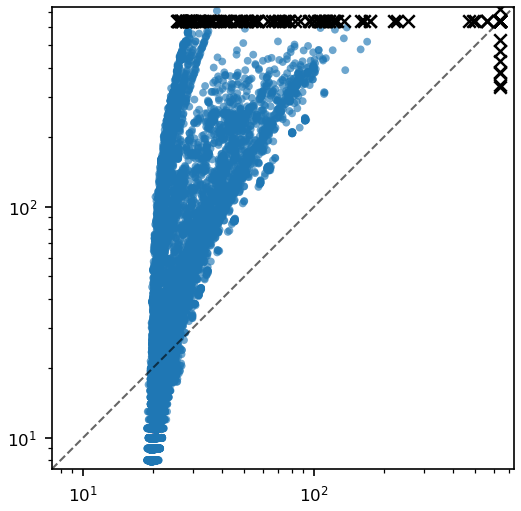
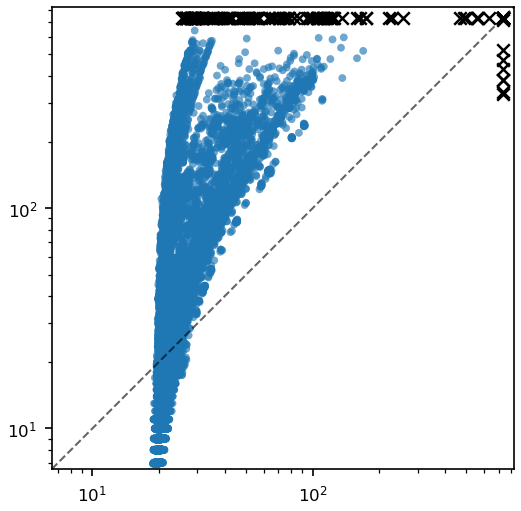
update plots

diff --git a/scripts/plot_frontend_scatter.py b/scripts/plot_frontend_scatter.py
@@ -131,9 +131,12 @@ def plot_one(ax, data, metric_key, other_parser, xlabel, ylabel, scale_rss=False
     # log scale：下限必须为正；time/RSS 通常没有很小值，用 max 的 1% 做下限，不从 10^0 起留空
     if lim_min <= 0:
         lim_min = max(1e-9, lim_max * 0.01) if lim_max > 0 else 1e-9
-    # 超时点往里缩一截（log 下用比例），避免被边框盖住；用叉号更醒目
-    boundary = lim_max / 1.15
-    boundary = max(boundary, lim_min * 1.1)
+    # 超时叉号画在数据最外侧（boundary = lim_max），保证叉号是最外层的点
+    boundary = lim_max
+    # 坐标轴再往外扩一截（log 下用比例），让叉号与边框之间留出缝隙，不贴边
+    pad_factor = 1.12  # 约 12% 扩展，留出可见空隙
+    lim_min_plot = lim_min / pad_factor
+    lim_max_plot = lim_max * pad_factor
     # 成功点
     if ok_pairs:
         xs, ys = zip(*ok_pairs)
@@ -155,9 +158,9 @@ def plot_one(ax, data, metric_key, other_parser, xlabel, ylabel, scale_rss=False
         ax.scatter(tx, ty, marker="x", s=36, linewidths=1.2, c="k", zorder=5)
     ax.set_xscale("log")
     ax.set_yscale("log")
-    ax.plot([lim_min, lim_max], [lim_min, lim_max], "k--", alpha=0.6, linewidth=1)
-    ax.set_xlim(lim_min, lim_max)
-    ax.set_ylim(lim_min, lim_max)
+    ax.plot([lim_min_plot, lim_max_plot], [lim_min_plot, lim_max_plot], "k--", alpha=0.6, linewidth=1)
+    ax.set_xlim(lim_min_plot, lim_max_plot)
+    ax.set_ylim(lim_min_plot, lim_max_plot)
     ax.set_xlabel("")
     ax.set_ylabel("")
     ax.tick_params(axis="both", labelsize=8)
